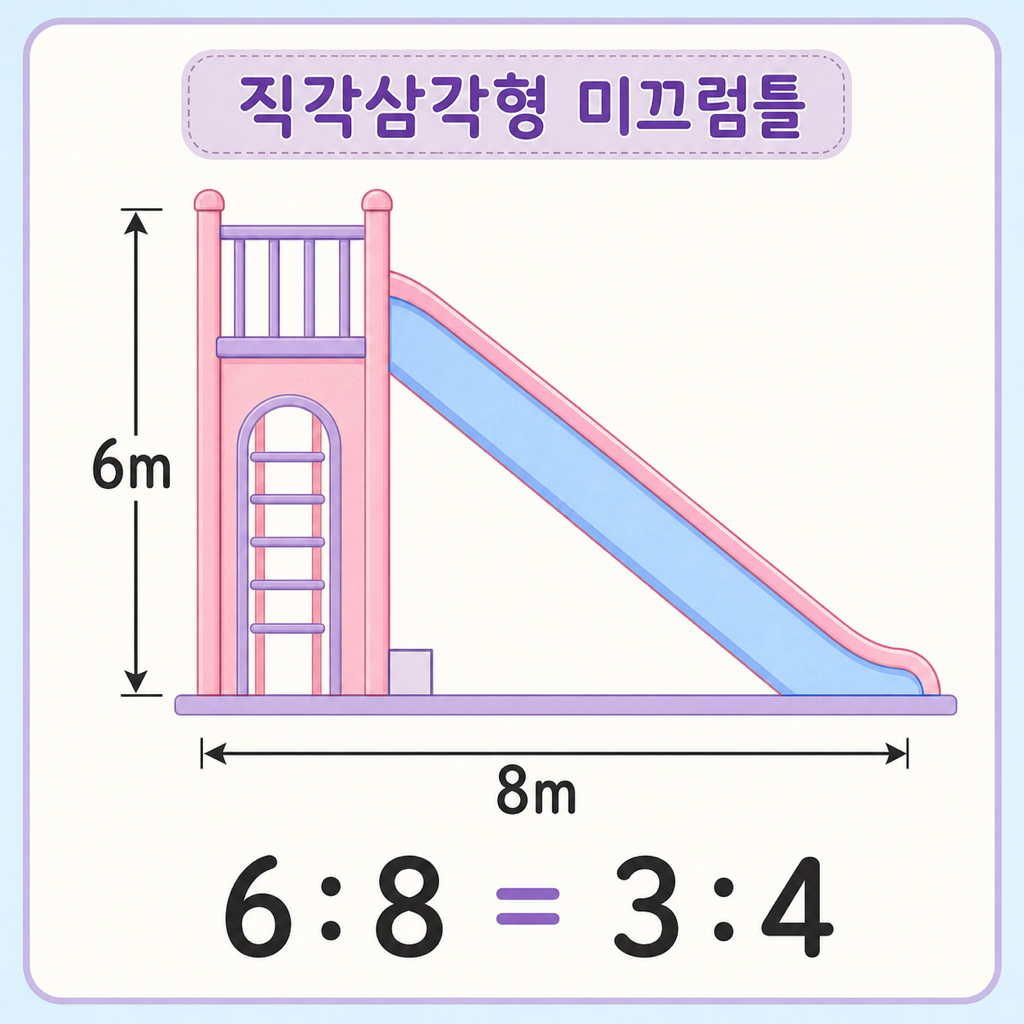
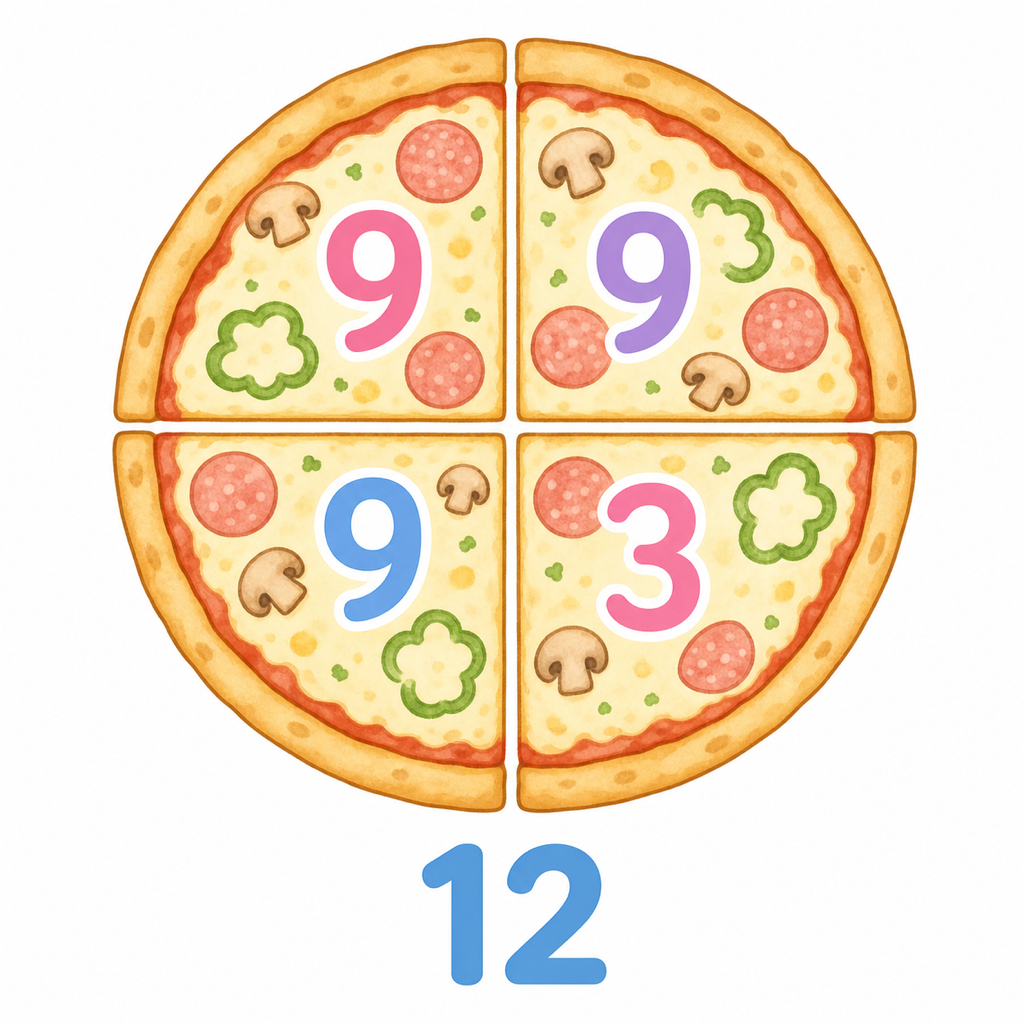
deploy: sion-mocktest

diff --git a/config.js b/config.js
@@ -8,87 +8,87 @@ window.GAME_CONFIG = {
     "id": 1,
     "cycle": 1,
     "subject": "수학",
-    "unit": "6-1 비와 비율",
-    "수능출처": "2024학년도 수능 수학 3번 [삼각형 길이 비]",
-    "기출유사문제": "직각삼각형 모양의 미끄럼틀이 있다. 바닥 길이는 8m이고 높이는 6m이다. 높이와 바닥 길이의 비를 가장 간단한 자연수의 비로 나타내어라.",
+    "unit": "6-1 분수의 나눗셈",
+    "수능출처": "2023학년도 수능 수학 3번 [식의 값 계산]",
+    "기출유사문제": "어떤 수에 3/4를 곱했더니 9가 되었다. 어떤 수를 구하시오.",
     "개념사다리": {
-      "초등": "비는 두 양을 나란히 비교하는 말이야.\n과자 6개와 우유 8개가 있으면 과자:우유는 6:8이야.\n6:8은 둘 다 2로 나눌 수 있어.\n그래서 3:4로 줄이면 더 깔끔해져.\n중요한 건 둘을 똑같은 수로 나누어야 한다는 점이야.\n한쪽만 나누면 비교가 망가져.\n도식: 높이 ●●●●●●, 바닥 ■■■■■■■■.\n둘 다 2개씩 묶으면 높이 3묶음, 바닥 4묶음이야.",
-      "중등": "중등에서는 이런 비교를 비례식이라고 불러.\n비례식은 두 비가 같다는 뜻이야.\n예를 들어 6:8과 3:4는 같은 비교야.\n조금 어려워 보여도 초등에서 본 것에 이름표만 붙인 거야.\n공식: 6:8 = 3:4\n둘 다 2로 나누었기 때문에 비교가 그대로 남아.",
-      "고등": "수능에서는 이렇게 살짝 어렵게 나와.\n지금 외울 필요 없어.\n직각삼각형에서 높이와 바닥의 비를 보고 각의 성질을 찾기도 해.\n같은 원리인데 숫자가 좀 더 복잡해질 뿐이야.\n예를 들어 6:8은 3:4로 줄여서 생각해."
+      "초등": "피자 한 판의 3/4가 9조각이라고 해보자.\n전체 피자는 9조각보다 커야 하지?\n3/4가 9이면 1/4는 3이야.\n그래서 전체 4/4는 12야.\n전체: ■ ■ ■ ■\n3칸: ■ ■ ■ = 9\n한 칸은 3이고 네 칸은 12야.",
+      "중등": "중등에서는 모르는 수에 이름표를 붙여.\nx는 모르는 숫자에 붙이는 이름이야.\n식은 3/4x=9라고 쓸 수 있어.\n양쪽을 3/4로 나누면 원래 전체 x가 나와.\n조금 어려워 보여도 피자 3칸에서 전체 4칸을 찾는 일이야.",
+      "고등": "수능에서는 이렇게 살짝 어렵게 나와. 지금 외울 필요 없어.\n같은 원리인데 숫자와 글자 이름이 더 복잡해질 뿐이야.\n예를 들어 5/6x=20이면 전체는 20÷5/6=24야.\n결국 일부를 보고 전체를 찾는 문제야."
     },
-    "풀이해설": "먼저 높이와 바닥 길이를 비로 쓴다.\n높이:바닥 = 6:8\n이제 두 수를 똑같이 나눌 수 있는 수를 찾는다.\n6과 8은 둘 다 2로 나눌 수 있다.\n6 ÷ 2 = 3이다.\n8 ÷ 2 = 4이다.\n그래서 6:8은 3:4이다.\n정답은 3:4이다.",
+    "풀이해설": "먼저 어떤 수를 x라고 둔다.\n3/4x=9이다.\n3/4를 곱해서 9가 되었으니 다시 3/4로 나눈다.\nx=9÷3/4이다.\n분수로 나눌 때는 뒤집어서 곱한다.\n9÷3/4=9×4/3=12이다.\n정답은 12이다.",
     "변형문제": {
       "type": "mcq",
-      "question": "직각삼각형 모양 깃발에서 세로 길이는 4cm이고 가로 길이는 10cm이다. 세로 길이와 가로 길이의 비를 가장 간단한 자연수의 비로 나타내어라.",
+      "question": "어떤 수의 2/3가 8이다. 어떤 수는 얼마인가?",
       "choices": [
-        "1:5",
-        "2:5",
-        "4:5",
-        "5:2"
+        "10",
+        "12",
+        "14",
+        "16"
       ],
-      "answer": "2:5",
-      "explanation": "4:10은 둘 다 2로 나눌 수 있다. 4 ÷ 2 = 2이고 10 ÷ 2 = 5이다. 그래서 2:5이다.",
-      "hint": "두 수를 똑같이 나눌 수 있는 수를 찾아봐."
+      "answer": "12",
+      "explanation": "2/3가 8이면 1/3은 4이다. 전체 3/3은 12이다.",
+      "hint": "먼저 1/3의 크기를 구해봐."
     },
-    "이미지_묘사": "직각삼각형 미끄럼틀 한 개. 세로 높이 6m 라벨 한 번. 바닥 길이 8m 라벨 한 번. 아래에 6:8 = 3:4를 크게 표시. 초등 교과서 파스텔 스타일.",
+    "이미지_묘사": "피자 한 판을 네 칸으로 나눈 그림. 세 칸에 9라고 표시. 한 칸에는 3이라고 표시. 전체 네 칸 아래에 12라고 크게 표시. 초등 교과서 파스텔 스타일.",
     "image_url": "./images/2026-05-11_cycle_1.png"
   },
   {
     "id": 2,
     "cycle": 2,
     "subject": "수학",
-    "unit": "도형 넓이 약점 보강",
-    "수능출처": "2024학년도 수능 수학 13번 [삼각형 길이와 넓이 관계]",
-    "기출유사문제": "마름모 모양 종이가 있다. 두 대각선의 길이는 각각 10cm, 6cm이다. 이 마름모의 넓이를 구하여라.",
+    "unit": "마름모 넓이 공식 보강",
+    "수능출처": "2024학년도 수능 수학 4번 [도형의 넓이 계산]",
+    "기출유사문제": "마름모의 두 대각선의 길이가 각각 10cm, 6cm이다. 이 마름모의 넓이를 구하시오.",
     "개념사다리": {
-      "초등": "마름모는 삐뚤어진 네모처럼 보여도 넓이를 쉽게 구할 수 있어.\n가운데를 십자로 자르면 작은 삼각형 4개가 생겨.\n대각선은 꼭짓점과 맞은편 꼭짓점을 잇는 선이야.\n마름모 넓이 공식: (대각선 × 대각선) ÷ 2\n여기서 ÷2를 꼭 해야 해.\n다시 말해 두 대각선을 곱한 값은 넓이의 두 배야.\n도식: ◇ 안에 ＋가 있고 가로 10cm, 세로 6cm라고 생각해보자.",
-      "중등": "중등에서는 삼각형 넓이를 더 자주 써.\n삼각형 넓이 공식: 밑변 × 높이 ÷ 2\n마름모 안의 작은 삼각형들도 모두 이 생각으로 볼 수 있어.\n조금 어려워 보여도 초등에서 본 십자 자르기에 이름표만 붙인 거야.\n예를 들어 10 × 6은 60이고, 마름모 넓이는 그 절반인 30이야.",
-      "고등": "수능에서는 도형 안에 삼각형이 여러 개 숨어 있어.\n지금 외울 필요 없어.\n핵심은 넓이를 구할 때 반으로 나누어야 하는지 확인하는 거야.\n같은 원리인데 선이 더 많아질 뿐이야.\n예를 들어 10 × 6 ÷ 2 = 30처럼 차근차근 하면 돼."
+      "초등": "마름모는 기울어진 네모처럼 보여.\n가운데에 긴 선 두 개를 십자로 그으면 네 조각이 생겨.\n이 네 조각을 옮기면 큰 직사각형의 절반이 돼.\n그래서 그냥 10×6이 아니야.\n꼭 2로 나누어야 해.\n마름모 넓이 공식은 (대각선×대각선)÷2야.\n◇ 안에 ＋를 떠올리자.",
+      "중등": "중등에서는 대각선이라는 말을 더 자주 써.\n대각선은 꼭짓점과 맞은편 꼭짓점을 잇는 선이야.\n마름모는 두 대각선으로 만든 큰 직사각형의 절반이라고 보면 돼.\n공식은 그대로 (10×6)÷2=30이야.\n평행사변형과 헷갈리면 안 돼.\n마름모는 대각선끼리 곱한 뒤 꼭 2로 나눠.",
+      "고등": "수능에서는 도형 안에 다른 선을 숨겨서 내기도 해. 지금 외울 필요 없어.\n같은 원리인데 필요한 길이를 먼저 찾게 만들 뿐이야.\n예를 들어 대각선이 12와 8이면 넓이는 (12×8)÷2=48이야.\n핵심은 마지막에 2로 나누는 것."
     },
-    "풀이해설": "마름모 넓이 공식을 먼저 쓴다.\n마름모 넓이 공식: (대각선 × 대각선) ÷ 2\n두 대각선은 10cm와 6cm이다.\n먼저 곱한다.\n10 × 6 = 60이다.\n마름모는 여기서 꼭 2로 나눈다.\n60 ÷ 2 = 30이다.\n정답은 30㎠이다.",
+    "풀이해설": "마름모 넓이 공식부터 확인한다.\n공식은 (대각선×대각선)÷2이다.\n두 대각선은 10cm와 6cm이다.\n(10×6)÷2를 계산한다.\n10×6=60이다.\n마름모는 큰 직사각형의 절반이므로 2로 나눈다.\n60÷2=30이다.\n정답은 30cm²이다.",
     "변형문제": {
       "type": "mcq",
-      "question": "마름모의 두 대각선 길이가 8cm, 5cm이다. 이 마름모의 넓이는 몇 ㎠인가?",
+      "question": "마름모의 두 대각선의 길이가 각각 8cm, 5cm이다. 이 마름모의 넓이는 얼마인가?",
       "choices": [
-        "13㎠",
-        "20㎠",
-        "40㎠",
-        "80㎠"
+        "20cm²",
+        "30cm²",
+        "40cm²",
+        "80cm²"
       ],
-      "answer": "20㎠",
-      "explanation": "마름모 넓이는 (대각선 × 대각선) ÷ 2이다. 8 × 5 = 40이고 40 ÷ 2 = 20이다.",
-      "hint": "대각선끼리 곱한 뒤 꼭 2로 나누어야 해."
+      "answer": "20cm²",
+      "explanation": "마름모 넓이는 (8×5)÷2이다. 40÷2=20이므로 정답은 20cm²이다.",
+      "hint": "8×5를 한 뒤 꼭 2로 나눠."
     },
-    "이미지_묘사": "마름모 ◇ 한 개. 가로 대각선 8cm를 양 끝 사이에 한 번만 라벨. 세로 대각선 5cm를 양 끝 사이에 한 번만 라벨. 가운데 십자 ＋ 표시. 아래에 (8 × 5) ÷ 2 = 20㎠를 크게 표시. 초등 교과서 파스텔 스타일.",
+    "이미지_묘사": "마름모 ◇ 한 개. 가로 대각선 8cm를 양 끝 사이에 한 번만 라벨. 세로 대각선 5cm를 양 끝 사이에 한 번만 라벨. 가운데 십자 표시. 아래에 (8×5)÷2=20cm²를 크게 표시. 초등 교과서 파스텔 스타일.",
     "image_url": "./images/2026-05-11_cycle_2.png"
   },
   {
     "id": 3,
     "cycle": 3,
     "subject": "국어",
-    "unit": "비문학 정보 비교",
-    "수능출처": "2024학년도 수능 국어 4~7번 [사회 독서]",
-    "기출유사문제": "학교 방송부는 점심시간 메뉴 만족도를 조사했다. 학생 100명 중 60명은 맛이 중요하다고 답했다. 25명은 기다리는 시간이 중요하다고 답했다. 15명은 양이 중요하다고 답했다. 방송부는 맛을 고른 학생이 가장 많으므로 맛 개선을 먼저 해야 한다고 정리했다. 방송부의 정리로 알맞은 것은?",
+    "unit": "비문학 중심 내용 찾기",
+    "수능출처": "2022학년도 수능 국어 4번 [정보 확인]",
+    "기출유사문제": "도서관에서는 책을 빌려 주기만 하는 것이 아니다. 조용히 공부할 자리도 마련하고, 어린이를 위한 책 읽기 모임도 연다. 또 컴퓨터로 자료를 찾는 방법을 알려 주기도 한다. 그래서 도서관은 책 창고가 아니라 사람들이 배우고 만나는 공간이라고 할 수 있다.",
     "개념사다리": {
-      "초등": "글에서 숫자가 나오면 먼저 큰 수와 작은 수를 비교해보자.\n60명, 25명, 15명이 나오면 60명이 가장 커.\n그래서 맛을 고른 학생이 가장 많아.\n하지만 모든 학생이라고 하면 100명 전부라는 뜻이야.\n60명은 많지만 100명 전부는 아니야.\n이 차이를 꼭 봐야 해.\n도식: 맛 ■■■■■■, 시간 ■■, 양 ■.\n가장 긴 막대가 답의 힌트야.",
-      "중등": "중등에서는 이런 문제를 자료 해석이라고 불러.\n자료 해석은 글 속 숫자와 말을 맞추어 보는 일이야.\n가장 많다는 1등이라는 뜻이고, 모두는 하나도 빠짐없다는 뜻이야.\n조금 어려워 보여도 초등에서 본 막대 비교에 이름표만 붙인 거야.\n예를 들어 60명은 25명보다 많지만 100명 전체는 아니야.",
-      "고등": "수능에서는 글이 길고 말이 더 딱딱해져.\n지금 외울 필요 없어.\n그래도 핵심은 숫자와 표현이 맞는지 확인하는 거야.\n같은 원리인데 문장이 길어질 뿐이야.\n예를 들어 대부분과 전부는 뜻이 다르다는 걸 보면 돼."
+      "초등": "글에는 가장 하고 싶은 말이 있어.\n친구가 놀이터는 미끄럼틀만 있는 곳이 아니야라고 말한다고 해보자.\n그 뒤에 그네, 축구, 숨바꼭질 이야기가 나오면 중심은 하나야.\n놀이터는 여러 놀이를 하는 곳이라는 뜻이야.\n작은 말은 책 빌리기, 공부 자리, 모임, 자료 찾기야.\n큰 말은 도서관은 배우고 만나는 공간이라는 뜻이야.",
+      "중등": "중등에서는 중심 내용이라는 말을 많이 써.\n중심 내용은 글쓴이가 가장 말하고 싶은 큰 생각이야.\n작은 예시는 큰 생각을 도와주는 재료야.\n이 글의 작은 예시는 책 빌리기, 공부 자리, 모임, 자료 찾기야.\n그러니 큰 생각은 도서관의 역할이 다양하다는 거야.\n어려워 보여도 작은 말들을 묶어 큰 말을 찾는 일이야.",
+      "고등": "수능에서는 글이 길어져. 지금 외울 필요 없어.\n그래도 방법은 같아.\n작은 정보들을 묶어 가장 큰 말을 찾으면 돼.\n예를 들어 자료 세 개가 모두 기후를 지키는 방법이면 중심도 그쪽이야.\n긴 글도 작은 말 묶기부터 시작하면 돼."
     },
-    "풀이해설": "글에서 학생 수를 확인한다.\n맛은 60명이다.\n기다리는 시간은 25명이다.\n양은 15명이다.\n가장 큰 수는 60명이다.\n그래서 맛을 고른 학생이 가장 많다.\n1번은 25명이므로 틀렸다.\n2번은 15명이므로 절반이 아니다.\n4번은 60명이므로 모든 학생이 아니다.\n정답은 3번이다.",
+    "풀이해설": "첫 문장에서 도서관은 책을 빌려 주기만 하는 곳이 아니라고 했다.\n그 다음 문장들은 다른 역할을 보여 준다.\n공부할 자리, 책 읽기 모임, 자료 찾기 방법이 나온다.\n이 작은 내용들은 모두 도서관의 여러 역할을 설명한다.\n따라서 중심 내용은 도서관이 사람들이 배우고 만나는 공간이라는 것이다.",
     "변형문제": {
       "type": "mcq",
-      "question": "도서관에서 좋아하는 책 종류를 조사했다. 학생 80명 중 만화책을 고른 학생은 35명이다. 과학책을 고른 학생은 20명이다. 동화책을 고른 학생은 25명이다. 알맞은 설명은?",
+      "question": "다음 글의 중심 내용으로 알맞은 것은? 공원은 산책만 하는 곳이 아니다. 사람들은 공원에서 운동을 하고, 친구를 만나고, 작은 공연을 보기도 한다. 아이들은 넓은 잔디밭에서 뛰어놀 수 있다. 그래서 공원은 여러 사람이 함께 쉬고 즐기는 공간이다.",
       "choices": [
-        "과학책을 고른 학생이 가장 많다.",
-        "만화책을 고른 학생이 가장 많다.",
-        "동화책을 고른 학생은 80명이다.",
-        "세 종류를 고른 학생 수가 모두 같다."
+        "공원에는 나무가 많다.",
+        "공원은 산책만 하는 곳이다.",
+        "공원은 여러 사람이 쉬고 즐기는 공간이다.",
+        "공원에서는 책을 빌릴 수 있다."
       ],
-      "answer": "만화책을 고른 학생이 가장 많다.",
-      "explanation": "35명, 20명, 25명 중 가장 큰 수는 35명이다. 그래서 만화책을 고른 학생이 가장 많다.",
-      "hint": "35, 20, 25 중 가장 큰 수를 찾아봐."
+      "answer": "공원은 여러 사람이 쉬고 즐기는 공간이다.",
+      "explanation": "운동, 만남, 공연, 놀이가 모두 나온다. 이 작은 말들을 묶으면 공원은 여러 사람이 쉬고 즐기는 공간이라는 큰 말이 된다.",
+      "hint": "반복해서 나오는 작은 행동들을 하나로 묶어봐."
     },
-    "이미지_묘사": "책 종류 조사 막대그림. 만화책 막대 35명으로 가장 길게. 과학책 20명. 동화책 25명. 막대 위에 숫자 한 번씩만 표시. 아래에 '가장 큰 수를 찾기' 문구. 초등 교과서 파스텔 스타일.",
+    "이미지_묘사": "가운데에 공원 그림. 주변에 산책, 운동, 친구 만나기, 공연, 잔디밭 놀이 아이콘. 아래에 큰 글씨로 '공원은 함께 쉬고 즐기는 공간' 표시. 초등 교과서 파스텔 스타일.",
     "image_url": "./images/2026-05-11_cycle_3.png"
   }
 ],
